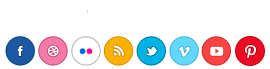
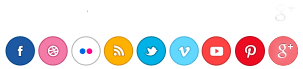
Adding Google+

Changed region(s): [[0.0296, 0.5217, 1.0, 0.9565], [0.0, 0.6087, 0.0296, 0.8696], [0.2667, 0.1449, 0.3259, 0.1739]]

diff --git a/app/assets/stylesheets/overrides.css.scss b/app/assets/stylesheets/overrides.css.scss
@@ -3,6 +3,10 @@
         color:           #A1A1A1;
         text-decoration: none;
     }
+    .social li {
+        a.s9:link  { background-position: -269px 0;    }
+        a.s9:hover { background-position: -269px 32px; }
+    }
 }
 
 #footer .footer_2 {

diff --git a/config/initializers/social_media.rb b/config/initializers/social_media.rb
@@ -8,6 +8,10 @@ module AOK
       url:            "https://twitter.com/AtheistOK",
       call_to_action: "Follow us on Twitter",
       css_class:      "s5" },
+    { service:        "Google+",
+      url:            "https://plus.google.com/u/0/communities/117866603268645374489",
+      call_to_action: "Join our Social Circle",
+      css_class:      "s9" },
     { service:        "YouTube",
       url:            "http://www.youtube.com/user/AtheistOK",
       call_to_action: "Watch Our Broadcasting",
